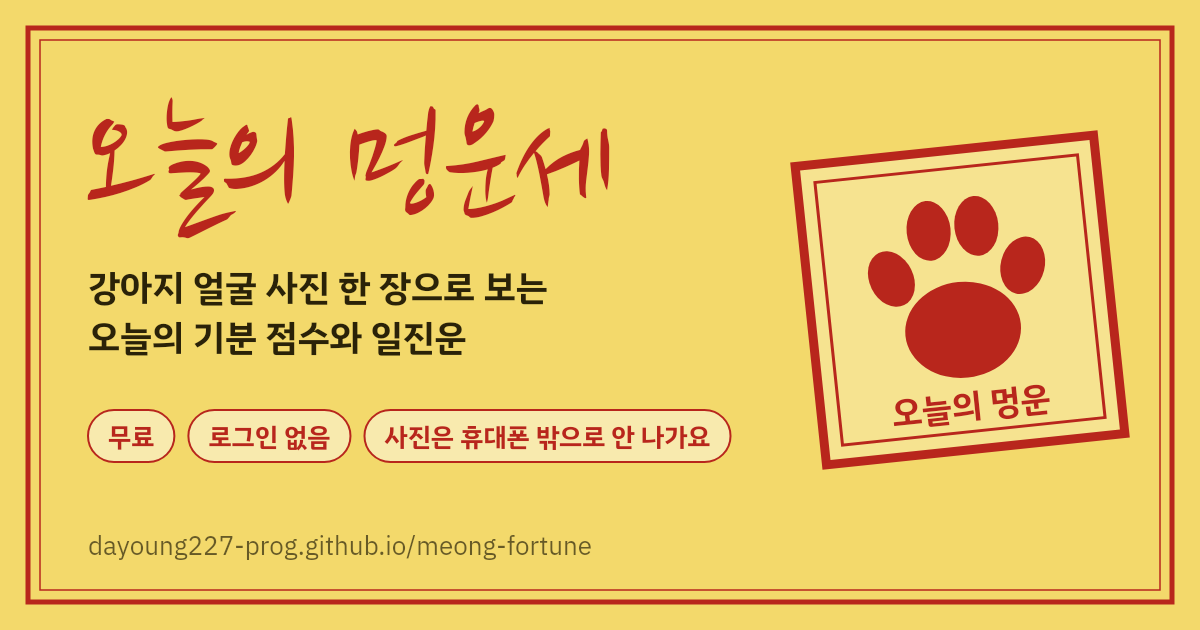
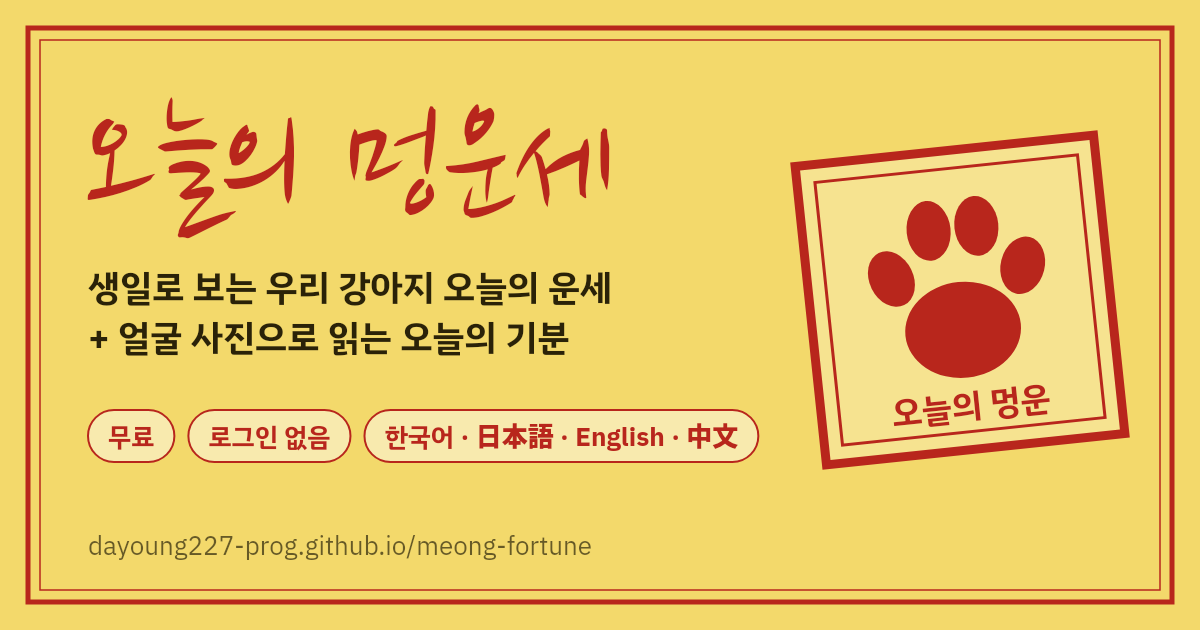
링크 미리보기 이미지·문구를 운세 중심 구성과 4개 국어에 맞게 변경
Claude-Session: https://claude.ai/code/session_011bXXCTckoffuvpVGMiJC3f

Changed region(s): [[0.0617, 0.4222, 0.5242, 0.4825], [0.0617, 0.5127, 0.4933, 0.573], [0.3083, 0.6333, 0.6475, 0.754]]

diff --git a/index.html b/index.html
@@ -10,16 +10,16 @@
 <meta property="og:site_name" content="오늘의 멍운세">
 <meta property="og:locale" content="ko_KR">
 <meta property="og:title" content="오늘의 멍운세 · 우리 강아지 오늘의 운세는?">
-<meta property="og:description" content="생일로 보는 오늘의 멍운과 얼굴 사진으로 읽는 기분 점수. 무료, 로그인 없음, 사진은 휴대폰 밖으로 나가지 않아요.">
+<meta property="og:description" content="생일로 보는 우리 강아지 오늘의 운세와 얼굴 사진으로 읽는 기분. 무료, 로그인 없음, 한국어·日本語·English·中文.">
 <meta property="og:url" content="https://dayoung227-prog.github.io/meong-fortune/">
-<meta property="og:image" content="https://dayoung227-prog.github.io/meong-fortune/og-image.png">
+<meta property="og:image" content="https://dayoung227-prog.github.io/meong-fortune/og-image.png?v=2">
 <meta property="og:image:width" content="1200">
 <meta property="og:image:height" content="630">
 <meta property="og:image:alt" content="노란 부적 바탕에 '오늘의 멍운세' 붓글씨와 빨간 발바닥 도장">
 <meta name="twitter:card" content="summary_large_image">
 <meta name="twitter:title" content="오늘의 멍운세 · 우리 강아지 오늘의 운세는?">
-<meta name="twitter:description" content="생일로 보는 오늘의 멍운과 얼굴 사진으로 읽는 기분 점수. 무료, 로그인 없음.">
-<meta name="twitter:image" content="https://dayoung227-prog.github.io/meong-fortune/og-image.png">
+<meta name="twitter:description" content="생일로 보는 우리 강아지 오늘의 운세와 얼굴 사진으로 읽는 기분. 무료, 로그인 없음.">
+<meta name="twitter:image" content="https://dayoung227-prog.github.io/meong-fortune/og-image.png?v=2">
 <link rel="icon" type="image/svg+xml" href="favicon.svg">
 <link rel="icon" type="image/png" sizes="32x32" href="favicon-32.png">
 <link rel="apple-touch-icon" href="apple-touch-icon.png">
